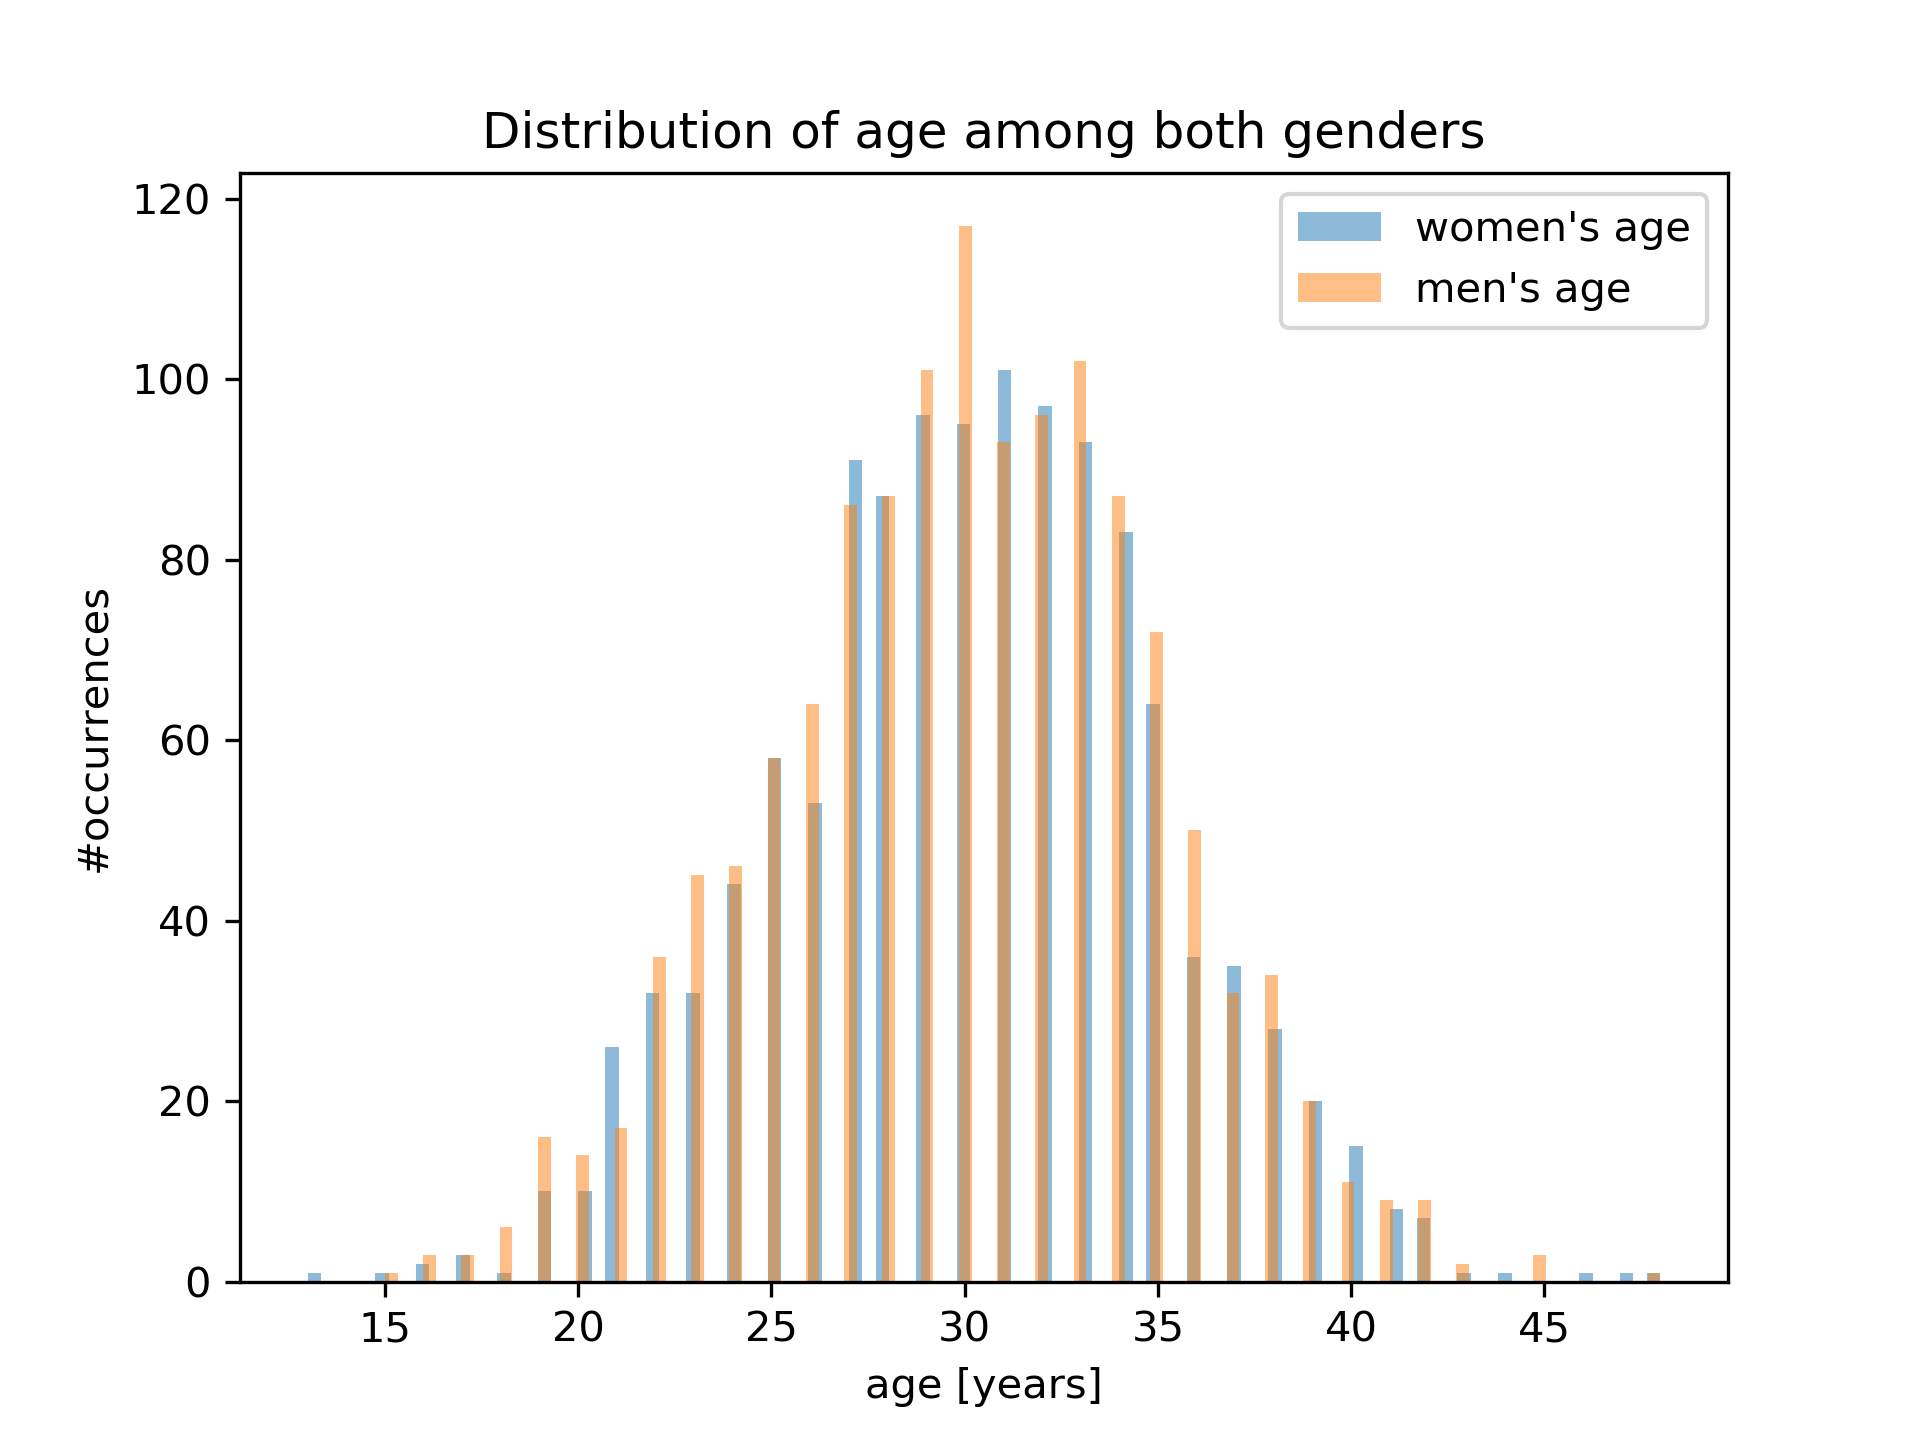
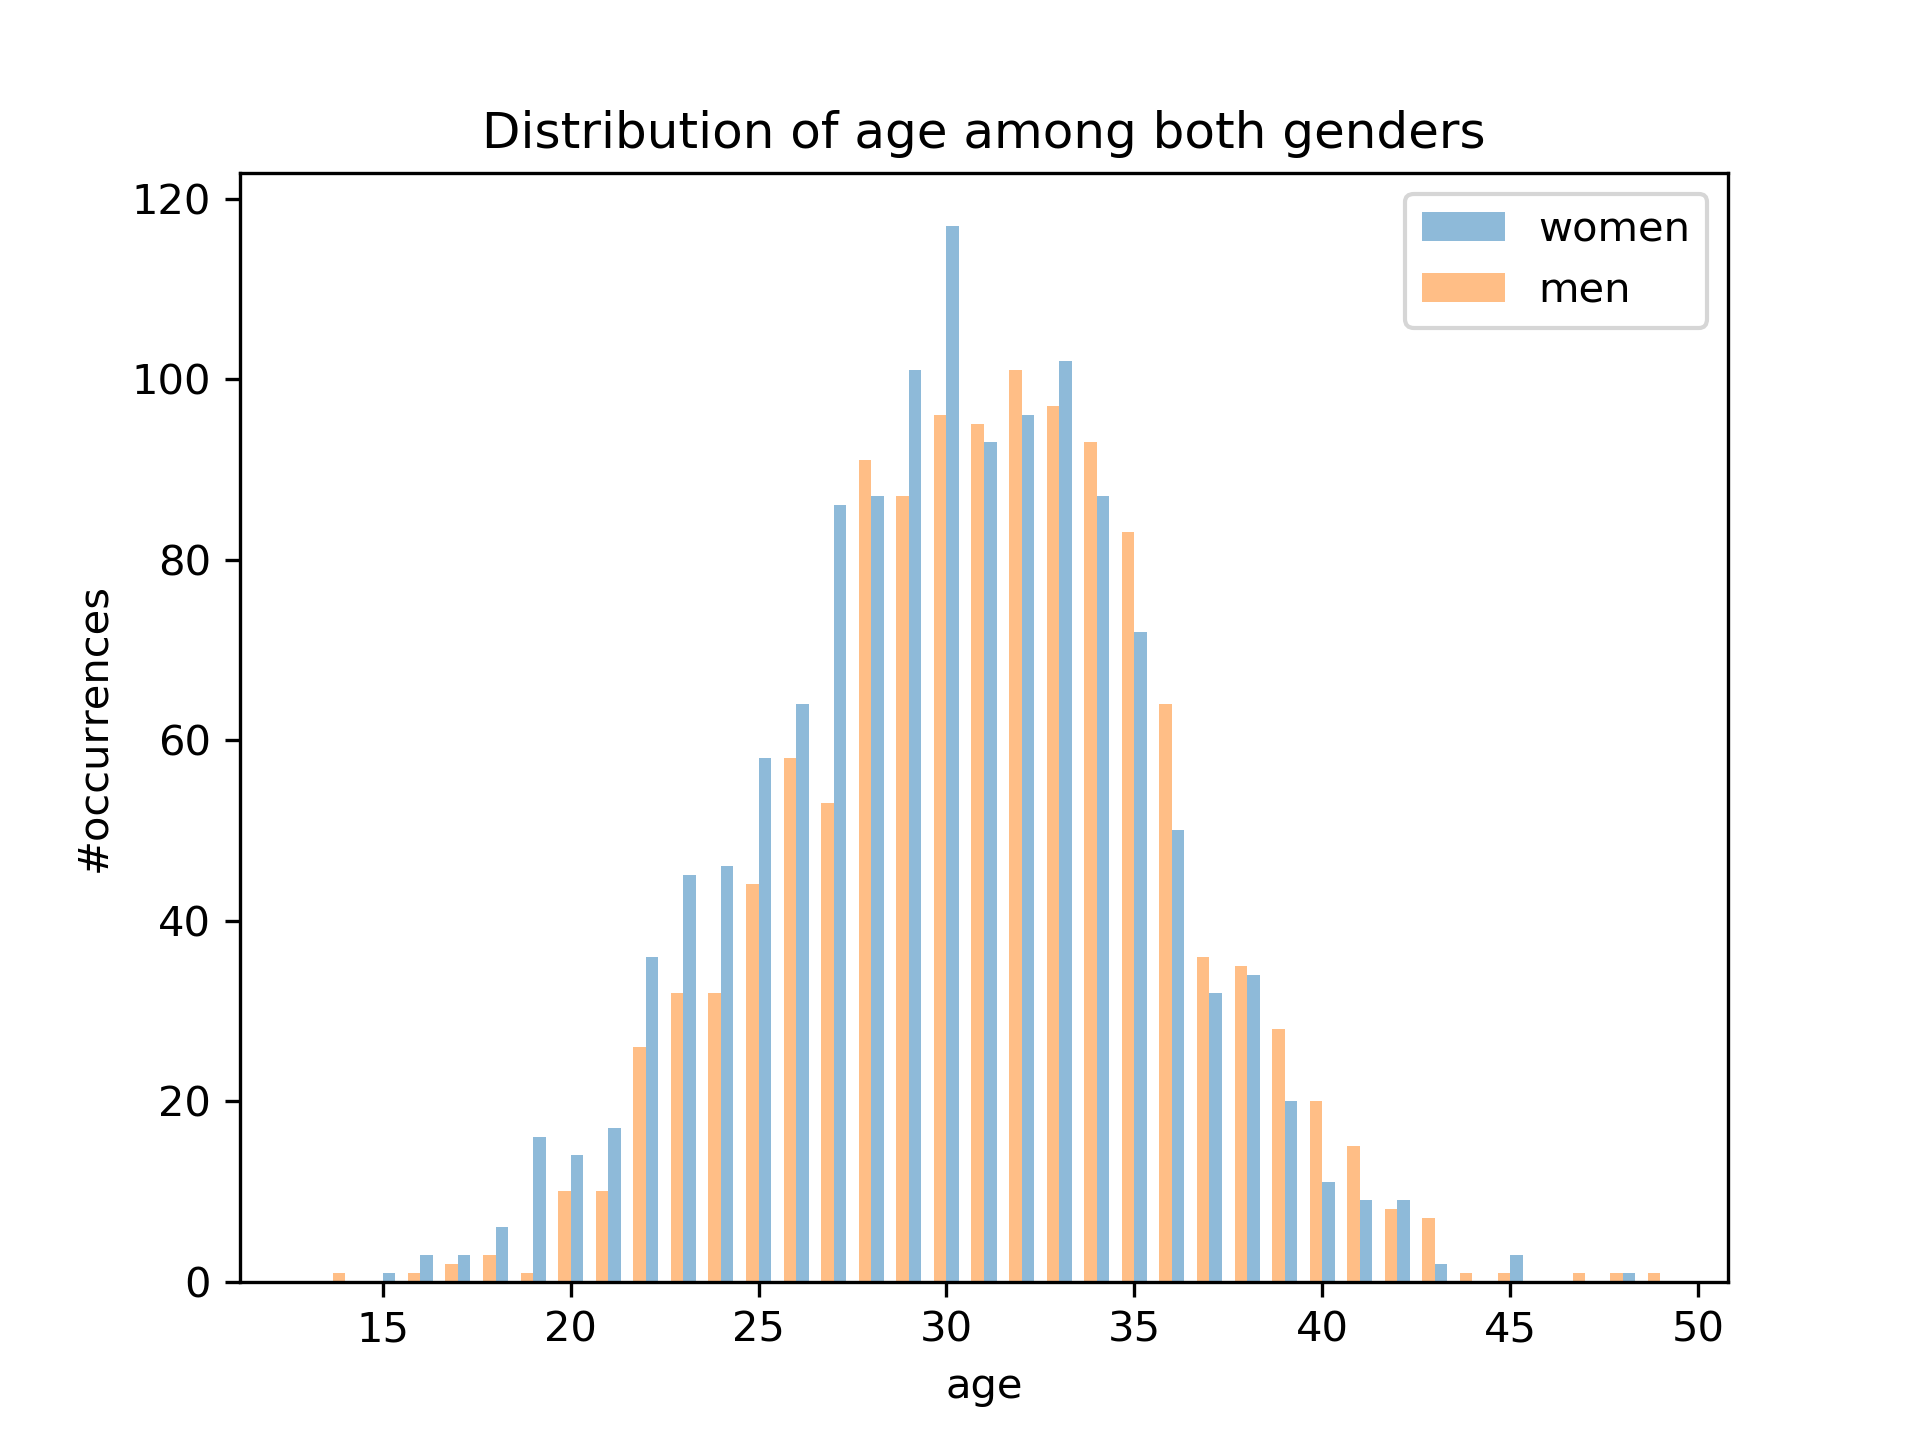
improvment of functions in utils.py and use of pandas for the dataframe

Changed region(s): [[0.1875, 0.1562, 0.8125, 0.9688], [0.6562, 0.125, 0.875, 0.2188], [0.875, 0.9062, 0.9062, 0.9375]]

diff --git a/src/utils.py b/src/utils.py
@@ -2,50 +2,58 @@
 # Description:
 # Code name: ./src/utils.py
 # Date of creation: 2019/03/12
-# Date of last modification: 2019/03/12
+# Date of last modification: 2019/03/14
 # Contact information: Yann Chavaillaz, yann.chavaillaz@gmail.com
 ##################################################################
 
 # Non-local packages required
 import numpy as np
+import pandas as pd
 import matplotlib.pyplot as plt
 
-def get_split_line(line):
-    return line.replace('\n', '').split(',')
-
 def read_data(file):
-    ListOfAllLines = []
-    for line in file:
-        ListOfAllLines.append(line)
-    return ListOfAllLines
+    """ description """
+    data = pd.read_csv(file)
+    return data
 
-def sort_data(ListOfAllLines):
-    x = []
-    y = []
-    z = []
-    w = []
-    for line in ListOfAllLines:
-        if line[0] == 'M':
-            split_line = get_split_line(line)
-            x.append(float(split_line[1]))
-            y.append(float(split_line[2]))
-        elif line[0] == 'F':
-            split_line = get_split_line(line)
-            z.append(float(split_line[1]))
-            w.append(float(split_line[2]))
-    return x,y,z,w
+def sort_data(df,gender):
+    """ description """
+    sorted_df = df[df['gender'].isin([gender])]
+    return sorted_df
 
-def plot_histogram(list,label):
-    counts_list, bin_edges_list = np.histogram(list, bins=100)
-    column_width = np.min(bin_edges_list[1:] - bin_edges_list[:-1])
-    plt.bar(0.5*(bin_edges_list[1:] +bin_edges_list[:-1]),  counts_list, label=label, alpha=0.5, width=column_width)
+def choose_bins(df,var,step):
+    """ description """
+    if step == 1.:
+        bin_1   = round(np.min(df[var].values))
+        bin_n   = round(np.max(df[var].values))+1
+        bins    = int(bin_n-bin_1)
+    elif step == 0.1:
+        bin_1   = round(np.min(df[var].values),1)
+        bin_n   = round(np.max(df[var].values),1)+0.1
+        bins    = int((bin_n-bin_1)*50.)
+    return bin_1,bin_n,bins
 
-def save_doublehistogram(list_F,list_M,var,xlabel,ylabel,title,res,path):
-    plot_histogram(list_F,"women's "+var)
-    plot_histogram(list_M,"men's "+var)
+def plot_histogram(list,bin_1,bin_n,bins,side,label):
+    """ description """
+    counts_list, bin_edges_list = np.histogram(list, bins=bins,range=(bin_1,bin_n))
+    column_width = np.min(bin_edges_list[1:] - bin_edges_list[:-1])/3.
+    if side == 'left':
+        column_spot = 0.5*(bin_edges_list[1:]+bin_edges_list[:-1])-column_width
+    elif side == 'right':
+        column_spot = 0.5*(bin_edges_list[1:]+bin_edges_list[:-1])+column_width
+    plt.bar(column_spot,counts_list,label=label,alpha=0.5, width=column_width)
+
+
+def doublehistogram(df,var,step,res,path):
+    """ description """
+    df_F = sort_data(df,'F')
+    df_M = sort_data(df,'M')
+    bin_1,bin_n,bins = choose_bins(df,var,step)
+    plot_histogram(df_F[var].values,bin_1,bin_n,bins,'left','women')
+    plot_histogram(df_M[var].values,bin_1,bin_n,bins,'right','men')
     plt.legend(loc=0)
-    plt.xlabel(xlabel)
-    plt.ylabel(ylabel)
-    plt.title(title)
+    plt.xlabel(var)
+    plt.ylabel('#occurrences')
+    plt.title('Distribution of '+var+' among both genders')
     plt.savefig(path+var+'_distribution.png',dpi=res)
     plt.close()

diff --git a/src/main_improved.py b/src/main_improved.py
@@ -2,7 +2,7 @@
 # Description:
 # Code name: ./src/main.py
 # Date of creation: 2019/03/12
-# Date of last modification: 2019/03/12
+# Date of last modification: 2019/03/14
 # Contact information: Yann Chavaillaz, yann.chavaillaz@gmail.com
 ##################################################################
 
@@ -13,13 +13,15 @@ import src.utils as fct
 path_data   = './data/'     # where to find the dataset
 path_fig    = './figures/'  # where to store the figures
 
-# Opening of the dataset
-file        = open(path_data+'data.csv', 'r')
+# Definition and reading of the dataset
+file        = (path_data+'data.csv') # where data is stored
+data        = fct.read_data(file)
 
-# Reading or sorting the dataset by gender
-list_data                   = fct.read_data(file)
-age_F,size_F,age_M,size_M   = fct.sort_data(list_data)
+# Definition of parameters
+resolution  = 300 # resolution of the figure in dpi
+step1       = 1.  # increment of histogram for the 1st variable
+step2       = 0.1 # increment of histogram for the 2nd variable
 
-# Plotting histograms of age and size distribution among both genders
-fct.save_doublehistogram(age_F,age_M,"age","age [years]","#occurrences","Distribution of age among both genders",300,path_fig)
-fct.save_doublehistogram(size_F,size_M,"size","size [meters]","#occurrences","Distribution of size among both genders",300,path_fig)
+# Plotting and saving histograms of age and size distribution among both genders
+fct.doublehistogram(data,list(data)[1],step1,resolution,path_fig) # age
+fct.doublehistogram(data,list(data)[2],step2,resolution,path_fig) # size
